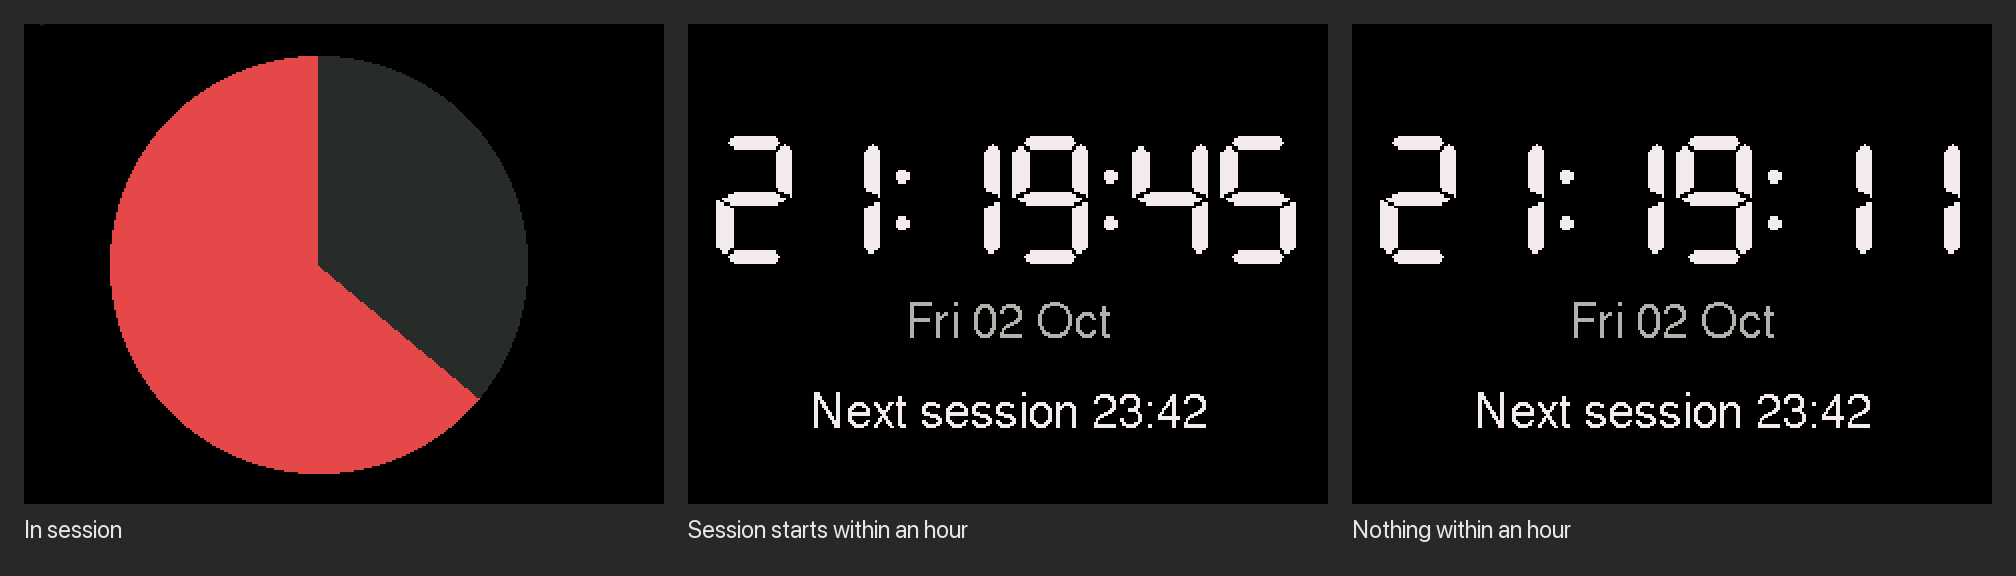
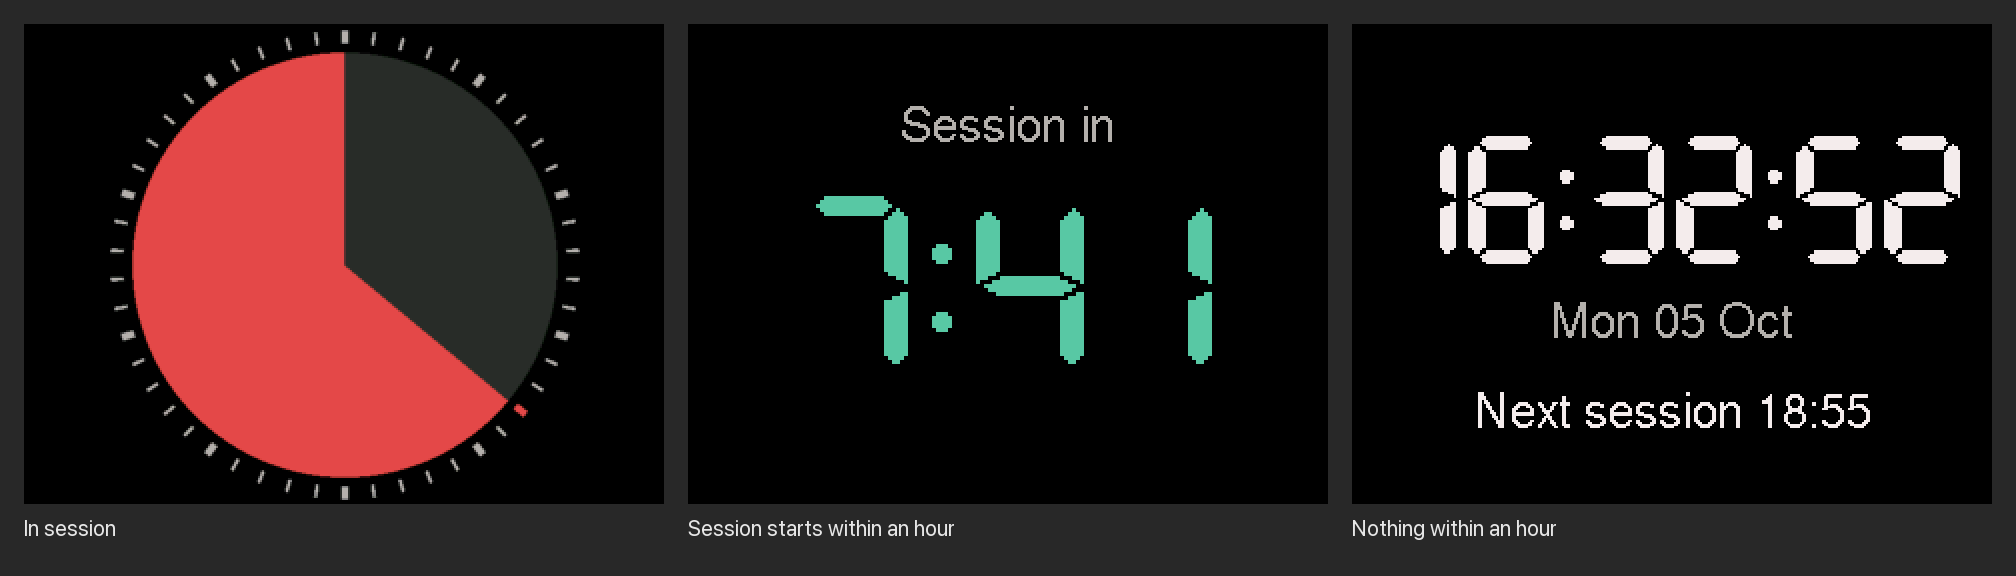
Add minute ticks, a tick sound and smooth edges to the pie
The pie now moves a whole minute at a time inside a ring with a tick per
minute, and the running minute's tick is red. A quiet click plays every
second of a session.

diff --git a/src/screens.cpp b/src/screens.cpp
@@ -6,6 +6,8 @@
  * Draws the clock, countdown and pie screens on the Core2's 320x240 display.
  * Text is laid out as fixed lines, described in the tables below; a line is
  * redrawn only when its text changes, which keeps the screen from flickering.
+ * The pie is drawn several times too big into an off-screen canvas and shrunk
+ * onto the display, which smooths its edges.
  */
 
 // Colors are 0xRRGGBB; M5GFX reads uint32_t that way
@@ -15,9 +17,17 @@ const uint32_t COUNTDOWN_GREEN = 0x5DCAA5, NOTICE_ORANGE = 0xEF9F27;
 
 #define CENTER_X 160
 #define CENTER_Y 120
-#define PIE_RADIUS 104
-#define PIE_STEP_DEGREES 0.25f  // the pie is redrawn once it has moved this far
 #define SLOT_COUNT 4
+
+// The pie and its ticks, in screen pixels and degrees
+#define PIE_RADIUS 106
+#define TICK_INNER 111          // the ticks sit between these two radii
+#define TICK_OUTER 117
+#define TICK_DEGREES 0.6f       // how wide a tick is, about 1px
+#define BOLD_TICK_DEGREES 1.6f  // about 3px
+#define BOLD_TICK_MINUTES 5
+#define PIE_SCALE 2             // how many times too big the pie is drawn; a redraw takes ~0.6s at 2, ~1s at 3
+#define PIE_CANVAS (240 * PIE_SCALE)
 
 // A centered line of text. Lines of one screen each need their own slot,
 // which is where the text now on the display is remembered.
@@ -41,10 +51,14 @@ enum Screen { SCREEN_NONE, SCREEN_CLOCK, SCREEN_COUNTDOWN, SCREEN_PIE };
 
 static bool enterScreen(Screen screen);
 static void drawLine(const TextLine &line, const String &text);
-static void fillSlice(float from, float to, uint32_t color);
 static String formatLocalTime(time_t when, const char *format);
+static void clearPieCanvas();
+static void drawSlices(float usedDegrees);
+static void drawTick(float angle, bool isActive, bool isBold);
+static void fillArc(int inner, int outer, float from, float to, uint32_t color);
 
 static String shownTexts[SLOT_COUNT];
+static M5Canvas pieCanvas;
 
 // MARK: Screens
 
@@ -66,16 +80,24 @@ void showCountdown(int32_t seconds) {
   drawLine(COUNTDOWN_TIME, text);
 }
 
-// The used-up part grows clockwise from 12 o'clock, like on a Time Timer
-void showPie(float usedFraction) {
-  static float shownAngle = 0;
+// The used-up part grows clockwise from 12 o'clock, like on a Time Timer. Its
+// edge always points at the tick of the minute that is running, which is red.
+void showPie(int usedMinutes, int totalMinutes) {
+  static int shownUsed, shownTotal;
   bool isFirstDraw = enterScreen(SCREEN_PIE);
-  float angle = 360 * usedFraction;
-  if (!isFirstDraw && angle - shownAngle < PIE_STEP_DEGREES) return;
+  if (!isFirstDraw && usedMinutes == shownUsed && totalMinutes == shownTotal) return;
+  shownUsed = usedMinutes;
+  shownTotal = totalMinutes;
 
-  if (isFirstDraw) fillSlice(angle, 360, PIE_RED);
-  fillSlice(0, angle, PIE_USED);
-  shownAngle = angle;
+  float minuteDegrees = 360.0f / totalMinutes;
+  clearPieCanvas();
+  drawSlices(usedMinutes * minuteDegrees);
+  for (int minute = 0; minute < totalMinutes; minute++) {
+    bool isActive = minute == usedMinutes;
+    drawTick(minute * minuteDegrees, isActive, isActive || minute % BOLD_TICK_MINUTES == 0);
+  }
+  // Shrinking averages the canvas's pixels, which is what smooths the edges
+  pieCanvas.pushRotateZoomWithAA(&M5.Display, CENTER_X, CENTER_Y, 0, 1.0f / PIE_SCALE, 1.0f / PIE_SCALE);
 }
 
 void setScreenBrightness(int brightness) {
@@ -109,16 +131,40 @@ static void drawLine(const TextLine &line, const String &text) {
   M5.Display.drawString(text, CENTER_X, line.y);
 }
 
-// Fills the pie between two angles, in degrees clockwise from 12 o'clock
-static void fillSlice(float from, float to, uint32_t color) {
-  // fillArc counts clockwise from 3 o'clock, so its 270 is the top
-  M5.Display.fillArc(CENTER_X, CENTER_Y, 0, PIE_RADIUS, 270 + from, 270 + to, color);
-}
-
 static String formatLocalTime(time_t when, const char *format) {
   char text[32];
   struct tm local;
   localtime_r(&when, &local);
   strftime(text, sizeof(text), format, &local);
   return text;
+}
+
+// MARK: Pie canvas
+
+// The canvas is too big for the normal heap, so it lives in PSRAM
+static void clearPieCanvas() {
+  if (!pieCanvas.getBuffer()) {
+    pieCanvas.setPsram(true);
+    pieCanvas.createSprite(PIE_CANVAS, PIE_CANVAS);
+  }
+  pieCanvas.fillScreen(BACKGROUND);
+}
+
+// The used part from 12 o'clock to usedDegrees, the rest red
+static void drawSlices(float usedDegrees) {
+  fillArc(0, PIE_RADIUS, usedDegrees, 360, PIE_RED);
+  // Equal angles would fill the whole circle
+  if (usedDegrees > 0) fillArc(0, PIE_RADIUS, 0, usedDegrees, PIE_USED);
+}
+
+static void drawTick(float angle, bool isActive, bool isBold) {
+  float halfWidth = (isBold ? BOLD_TICK_DEGREES : TICK_DEGREES) / 2;
+  fillArc(TICK_INNER, TICK_OUTER, angle - halfWidth, angle + halfWidth, isActive ? PIE_RED : TEXT_GRAY);
+}
+
+// Fills part of a ring on the pie canvas. Radii are in screen pixels, angles in
+// degrees clockwise from 12 o'clock.
+static void fillArc(int inner, int outer, float from, float to, uint32_t color) {
+  // The canvas counts clockwise from 3 o'clock, so its 270 is the top
+  pieCanvas.fillArc(PIE_CANVAS / 2, PIE_CANVAS / 2, inner * PIE_SCALE, outer * PIE_SCALE, 270 + from, 270 + to, color);
 }

diff --git a/src/main.cpp b/src/main.cpp
@@ -8,7 +8,7 @@
  * Focusmate session display for an M5Stack Core2. The loop looks at the
  * session that is running or comes next and decides everything from it: which
  * screen to show (a pie during a session, a countdown before one, otherwise a
- * clock), how bright the screen is, and when to chime.
+ * clock), how bright the screen is, and when to chime and tick.
  */
 
 #define COUNTDOWN_S 3600    // a session starting within this gets the countdown
@@ -18,8 +18,14 @@
 #define BRIGHTNESS 100      // 0-255
 #define DIM_BRIGHTNESS 24
 #define VOLUME 128          // 0-255
+#define TICK_VOLUME 20      // 0-255, on top of VOLUME
+#define TICK_HZ 1500
+#define TICK_MS 4
+#define TICK_CHANNEL 0      // the chimes take free channels from 7 down
+#define LOOP_MS 20          // short, so the ticks land evenly
 
 static void playChimes(const Session &session, time_t now);
+static void playTick(const Session &session, time_t now);
 static void playNotes(std::initializer_list<int> frequencies);
 
 void setup() {
@@ -28,6 +34,7 @@ void setup() {
   cfg.internal_rtc = false;
   M5.begin(cfg);
   M5.Speaker.setVolume(VOLUME);
+  M5.Speaker.setChannelVolume(TICK_CHANNEL, TICK_VOLUME);
 
   startNetwork();
   startFetchingSessions();
@@ -38,15 +45,17 @@ void loop() {
   debugLoop();
   time_t now = time(nullptr);
   Session session = currentSession(now);
+  // Before the drawing, which takes a while when the pie moves
+  playTick(session, now);
 
-  if (session.isRunning(now)) showPie(session.usedFraction(now));
+  if (session.isRunning(now)) showPie(session.usedMinutes(now), session.minutes());
   else if (session.isStartingWithin(COUNTDOWN_S, now)) showCountdown(session.start - now);
   else showClock(now, session, fetchProblem());
 
   bool isSessionNear = session.isRunning(now) || session.isStartingWithin(BRIGHT_S, now);
   setScreenBrightness(isSessionNear ? BRIGHTNESS : DIM_BRIGHTNESS);
   playChimes(session, now);
-  delay(100);
+  delay(LOOP_MS);
 }
 
 // Two notes a minute before a session and three when it starts, once per session
@@ -63,6 +72,14 @@ static void playChimes(const Session &session, time_t now) {
     chimedStart = session.start;
     playNotes({1047, 1319, 1568});
   }
+}
+
+// A quiet click every second of a session
+static void playTick(const Session &session, time_t now) {
+  static time_t tickedAt = 0;
+  if (!session.isRunning(now) || now == tickedAt) return;
+  tickedAt = now;
+  M5.Speaker.tone(TICK_HZ, TICK_MS, TICK_CHANNEL);
 }
 
 // Frequencies in Hz

diff --git a/src/sessions.h b/src/sessions.h
@@ -14,8 +14,9 @@ struct Session {
   bool isBooked() const { return seconds > 0; }
   bool isRunning(time_t now) const { return now >= start && now < start + seconds; }
   bool isStartingWithin(int32_t limit, time_t now) const { return now < start && start - now <= limit; }
-  // 0 at the start, 1 at the end
-  float usedFraction(time_t now) const { return (float)(now - start) / seconds; }
+  int32_t minutes() const { return seconds / 60; }
+  // Whole minutes since the start
+  int32_t usedMinutes(time_t now) const { return (now - start) / 60; }
 };
 
 void startFetchingSessions();

diff --git a/src/screens.h b/src/screens.h
@@ -13,8 +13,9 @@ void showClock(time_t now, const Session &next, const char *notice);
 // "Session in" and the time left as minutes:seconds
 void showCountdown(int32_t seconds);
 
-// A pie that starts full and empties clockwise as usedFraction goes from 0 to 1
-void showPie(float usedFraction);
+// A pie that starts full and empties clockwise a minute at a time, inside a
+// ring with a tick per minute
+void showPie(int usedMinutes, int totalMinutes);
 
 // 0-255
 void setScreenBrightness(int brightness);

diff --git a/README.md b/README.md
@@ -4,11 +4,11 @@ A desk display for [Focusmate](https://www.focusmate.com) sessions on an M5Stack
 
 ![The three screens, captured from the device](docs/screens.png)
 
-- **In session:** a pie that starts full and empties clockwise until the session ends.
+- **In session:** a pie that starts full and empties clockwise a minute at a time, inside a ring with a tick per minute. The tick of the running minute is red.
 - **Session starts within an hour:** a countdown.
 - **Otherwise:** the time, the date and when the next session starts.
 
-The speaker plays two notes one minute before a session and three notes when it starts.
+The speaker plays two notes one minute before a session and three notes when it starts, and ticks quietly every second while it runs.
 
 ## Setup
 
@@ -32,6 +32,7 @@ pio run -t upload
 
 - A background task asks `GET /v1/sessions` for the next 24 hours once a minute. A session you book or cancel shows up within a minute.
 - The pie and the countdown run off the device's clock, which is synced from the internet, so they keep going between requests.
+- The pie and its ticks are drawn at twice their size into an off-screen canvas in the Core2's PSRAM and shrunk onto the screen, which smooths their edges.
 - The screen is at full brightness from 10 minutes before a session until it ends, and dimmed the rest of the time.
 - The device has no sleep mode and is meant to stay on USB power.
 
